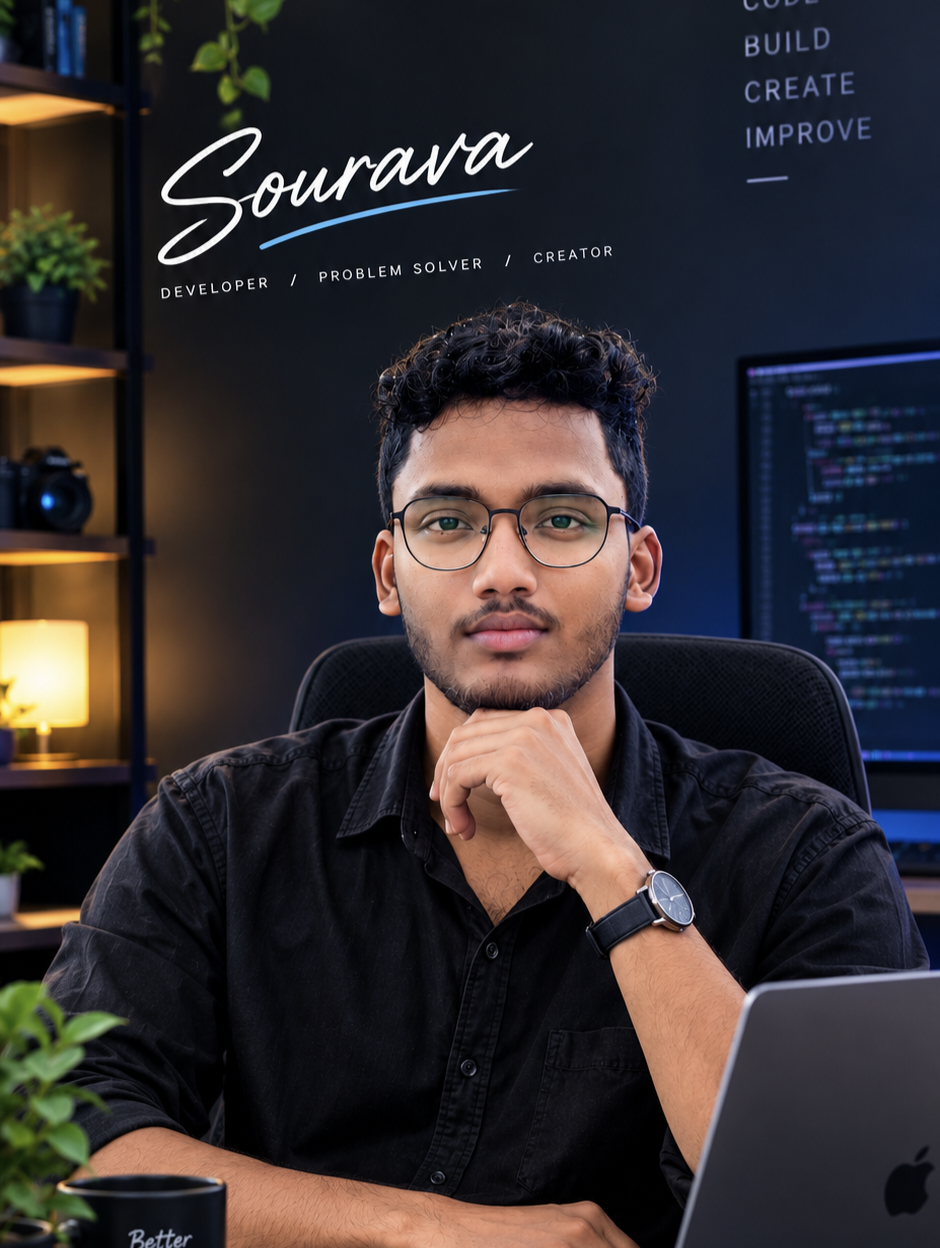
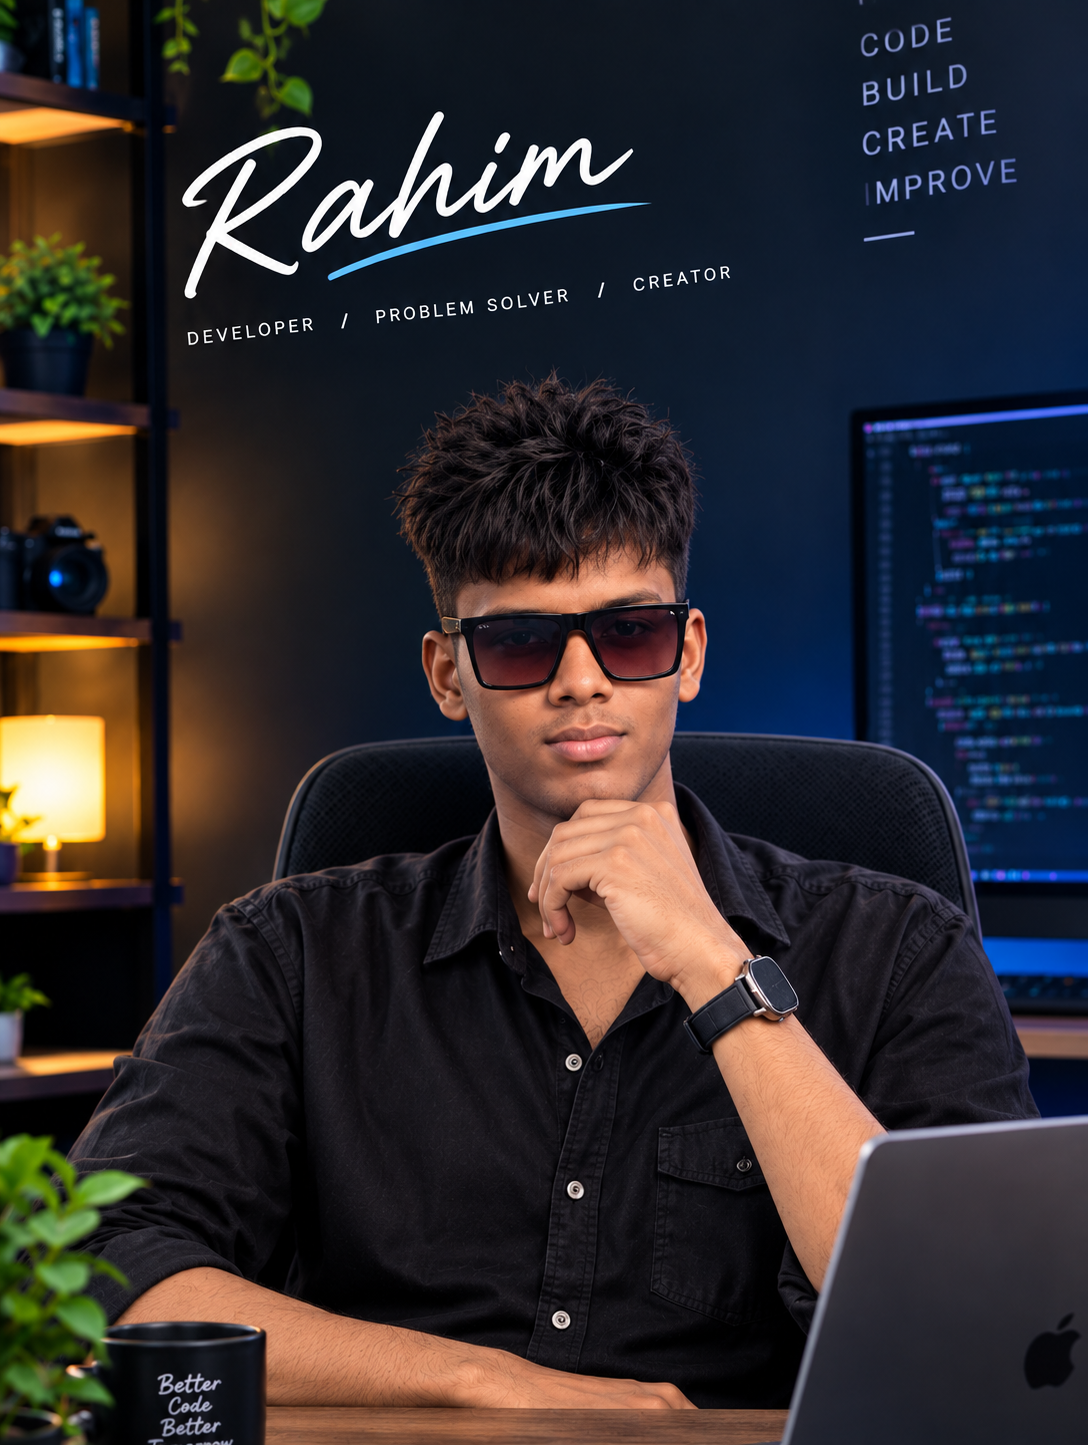
1st commit

diff --git a/script.js b/script.js
@@ -2,7 +2,7 @@
    EDIT YOUR DETAILS HERE. Everything on the page is built from this object.
    ============================================================ */
 const P = {
-  name: "Sourava Kumar Swain",
+  name: "Sk Rahim Alli",
   roles: ["Full Stack Developer", "AI Engineer", "Problem Solver"],
   availability: "Available to work",
   badge: "Full-stack Developer",
@@ -10,16 +10,16 @@ const P = {
   photo: "hero.png",                       // paste an image URL or data URI here to replace the initials
   location: "Bhubaneswar, India",
   timezone: "Asia/Kolkata",
-  email: "souravkumarswain3333@gmail.com.com",
-  phone: "+919692618822",
+  email: "skrahimalli08@gmail.com",
+  phone: "+917606049822",
   summary: "Full Stack Developer and AI Engineer who builds scalable web apps and practical machine learning tools. Open to internships, freelance projects and collaborations.",
   socials: {
-    linkedin: "https://www.linkedin.com/in/souravakumarswain",
-    github: "https://github.com/sourava-coder",
-    whatsapp: "https://wa.me/+919692618822"
+    linkedin: "https://www.linkedin.com/in/skrahimalli",
+    github: "https://github.com/rahim-sheakh",
+    whatsapp: "https://wa.me/+917606049822"
   },
   stats: [
-    { value: 20, suffix: "+", label: "Projects built" },
+    { value: 5, suffix: "+", label: "Projects built" },
     { value: 500, suffix: "+", label: "Git commits" },
     { value: 8.0, dec: 1, suffix: "", label: "CGPA (B.Tech)" },
     { value: 3, suffix: "+", label: "Hackathons won" }
@@ -63,7 +63,7 @@ const P = {
   education: [
     { yrs: "2026 to 2030", title: "B.Tech in Computer Science and Data Science", org: "Bhubaneswar Engineering College, Bhubaneswar",
       text: "Core subjects, machine learning, data structures and algorithms, database systems and AI.", score: "CGPA: 8.0" },
-    { yrs: "2024 to 2026", title: "+2 Science", org: "UNOPOS Higher Secondary School of Science,Tirtol",
+    { yrs: "2024 to 2026", title: "+2 Science", org: "Sabitri Davi Higher Secondary School of Science , Salepur",
       text: "CSS, HTML and Java, web development basics, database management and computer networks.", score: "Score: 81%" }
   ],
   certs: [

diff --git a/index.html b/index.html
@@ -4,7 +4,7 @@
 <meta charset="utf-8">
 <meta name="viewport" content="width=device-width, initial-scale=1, viewport-fit=cover">
 <meta name="color-scheme" content="light dark">
-<title>Sourava Kumar Swain | Full Stack Developer &amp; AI Engineer</title>
+<title>Sk Rahim Alli | Full Stack Developer &amp; AI Engineer</title>
  <link rel="icon" type="image/png" href="logo.png">
 <meta name="description" content="Portfolio of Your Name, Full Stack Developer and AI Engineer.">
 <link rel="preconnect" href="https://fonts.googleapis.com">
@@ -17,7 +17,7 @@
 <div class="loader-screen" id="loaderScreen" aria-live="polite" aria-label="Loading portfolio">
   <div class="loader-core">
     <div class="loader-badge">SK</div>
-    <div class="loader-name">Sourava Kumar Swain</div>
+    <div class="loader-name">Sk Rahim Alli</div>
     <div class="loader-bar"><span id="loaderFill"></span></div>
     <div class="loader-percent" id="loaderPercent">0%</div>
   </div>
@@ -26,7 +26,7 @@
 <div class="portfolio-shell" id="portfolioShell">
 <header class="site-header" id="top">
   <div class="wrap bar">
-    <a class="brand" href="#home"><span class="mark" id="brandMark">SK</span><span id="brandName">Sourava Kumar Swain</span></a>
+    <a class="brand" href="#home"><span class="mark" id="brandMark">SK</span><span id="brandName">Sk Rahim Alli</span></a>
     <nav aria-label="Main"><ul id="navList"></ul></nav>
     <div class="actions">
       <button class="icon-btn" id="themeBtn" type="button" aria-label="Switch colour theme"></button>
@@ -44,7 +44,7 @@
       <div class="hero-copy">
         <span class="avail"><i class="dot"></i><span id="availText">Available to work</span></span>
         <p class="hello">Hi, I'm</p>
-        <h1 id="heroName">Sourava Kumar Swain</h1>
+        <h1 id="heroName">Sk Rahim Alli</h1>
         <p class="role"><span class="sr-only" id="roleStatic"></span><span aria-hidden="true"><span id="roleText"></span><i class="caret"></i></span></p>
         <p class="summary" id="heroSummary"></p>
         <div class="cta">
